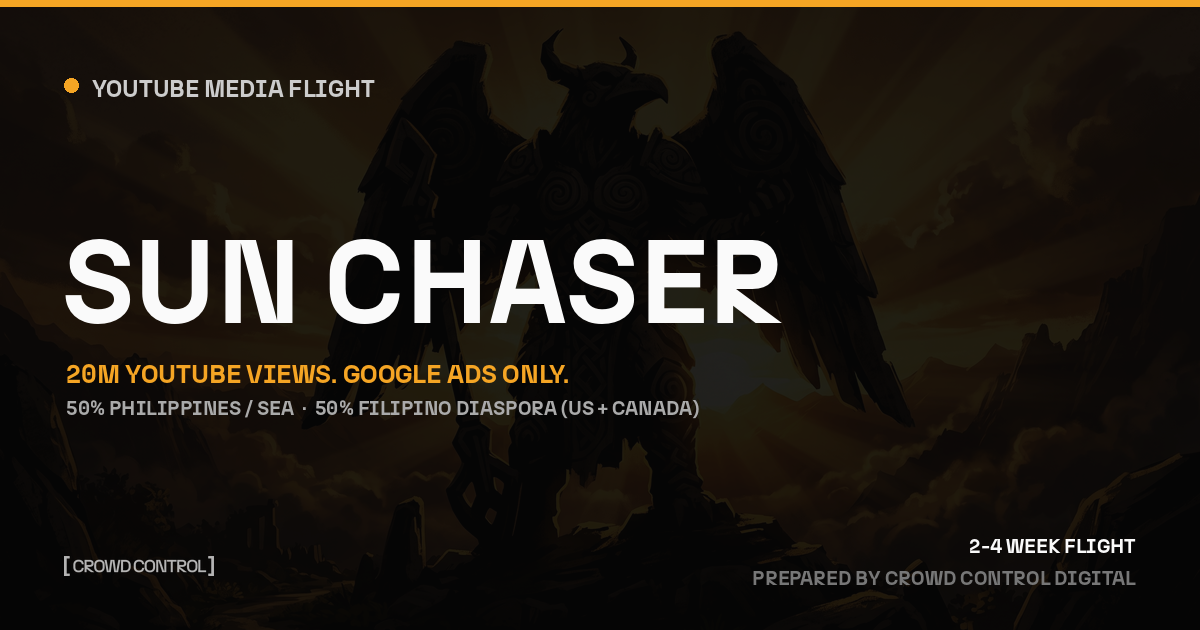
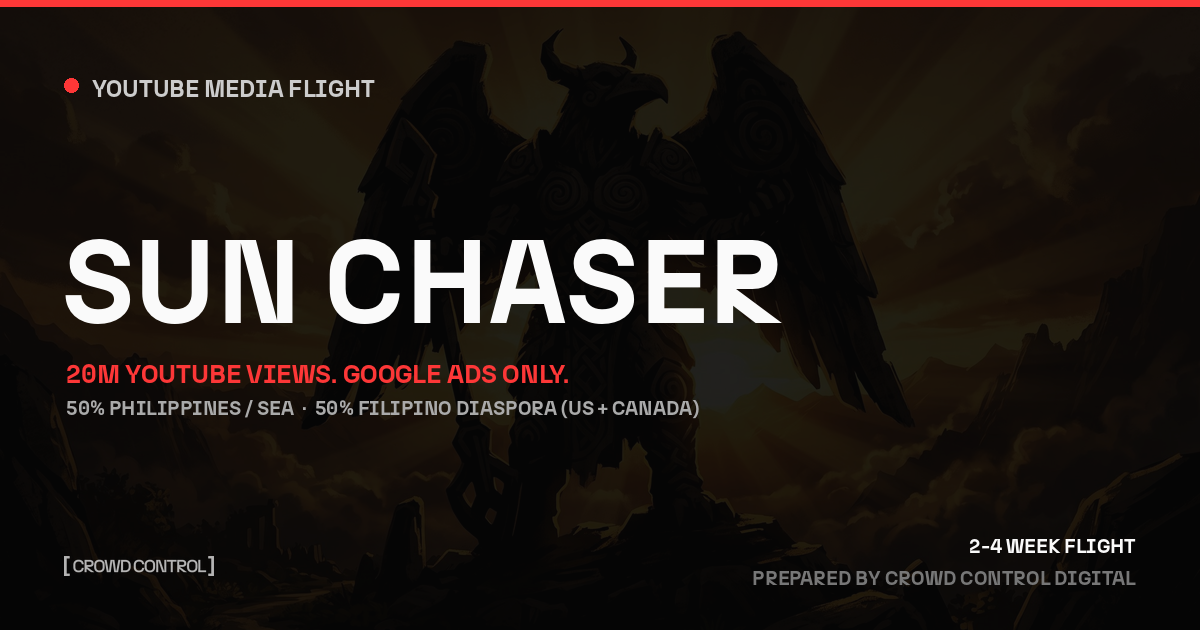
Sun Chaser flight: CCD red accent + red OG card
Claude-Session: https://claude.ai/code/session_0177ZeJZQxBy7UFyGEeuLmu7

Changed region(s): [[0.0, 0.0, 1.0, 0.0302], [0.0617, 0.573, 0.4933, 0.6333], [0.0308, 0.1206, 0.0617, 0.1508]]

diff --git a/src/lib/projects/sun-chaser.ts b/src/lib/projects/sun-chaser.ts
@@ -1,7 +1,7 @@
 import type { ProjectData } from "../project-context";
 
 export const sunChaser: ProjectData = {
-  accentColor: "#F5A524",
+  accentColor: "#FD3737",
 
   client: {
     name: "Sun Chaser",
